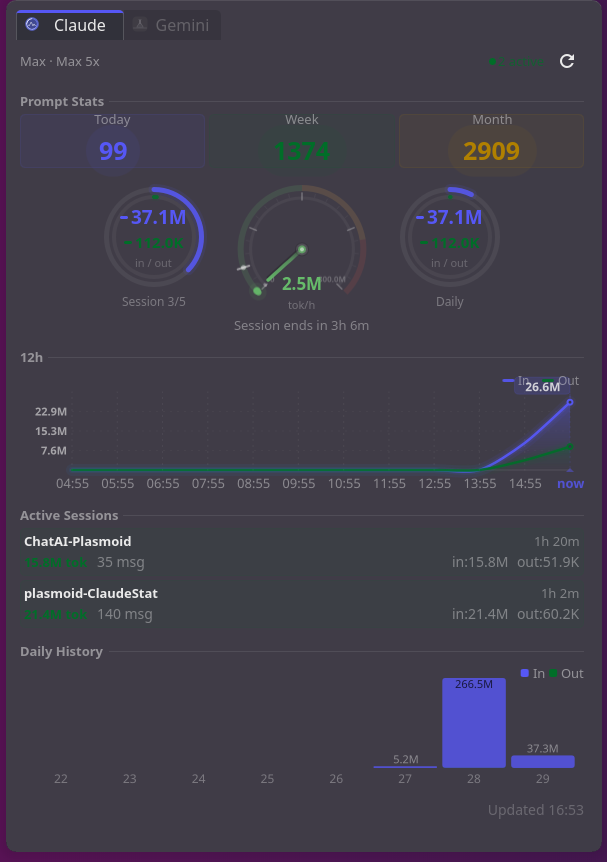
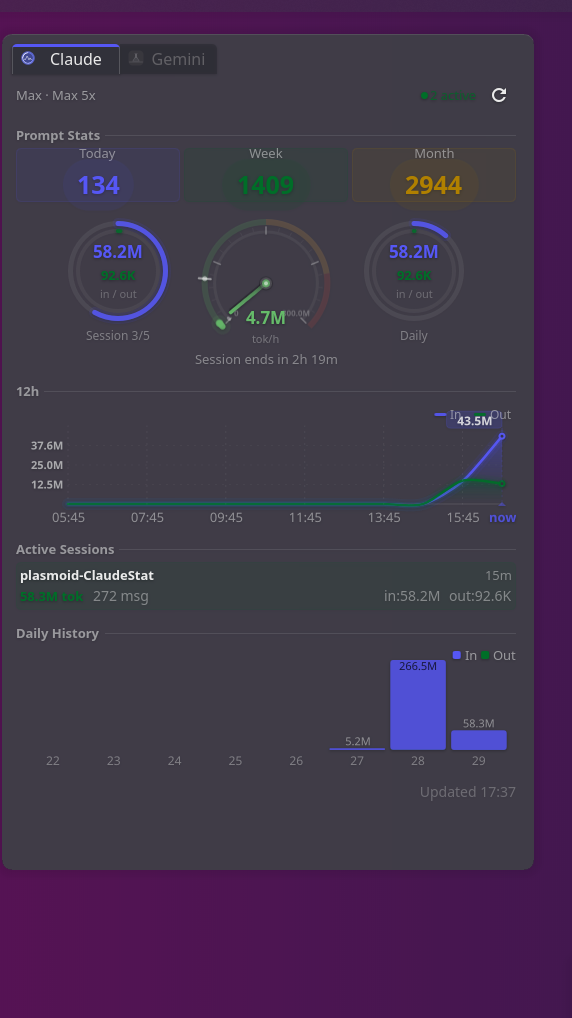
Fix single-PID tachometer bug and update screenshots
- Fix grep -H: with only 1 active session, grep omitted the filename
  prefix, so the /proc/PID/io parser couldn't extract the PID and
  instantRate stayed at 0. Now always uses grep -H.
- Import PlasmaCore for backgroundHints (blur/shadow on desktop)
- Update screenshots from live desktop widget

diff --git a/claude-stat/contents/ui/main.qml b/claude-stat/contents/ui/main.qml
@@ -2,6 +2,7 @@ import QtQuick
 import QtQuick.Layouts
 import QtQuick.Controls as QQC2
 import org.kde.plasma.plasmoid
+import org.kde.plasma.core as PlasmaCore
 import org.kde.plasma.plasma5support as Plasma5Support
 import org.kde.plasma.components as PlasmaComponents
 import org.kde.kirigami as Kirigami
@@ -25,6 +26,8 @@ PlasmoidItem {
 
     property bool onDesktop: Plasmoid.formFactor === 0
     preferredRepresentation: onDesktop ? fullRepresentation : compactRepresentation
+
+    Plasmoid.backgroundHints: PlasmaCore.Types.DefaultBackground | PlasmaCore.Types.ShadowBackground
 
     // ── Claude state ──
     property bool loading: false
@@ -214,7 +217,7 @@ PlasmoidItem {
             root._pollPending = true
             // Alternate between 2 strings to force re-execution without unbounded accumulation
             root._pollSeq = 1 - root._pollSeq
-            var cmd = "grep ^rchar:"
+            var cmd = "grep -H ^rchar:"
             for (var i = 0; i < root._sessionPids.length; i++)
                 cmd += " /proc/" + root._sessionPids[i] + "/io"
             cmd += " 2>/dev/null #" + root._pollSeq
